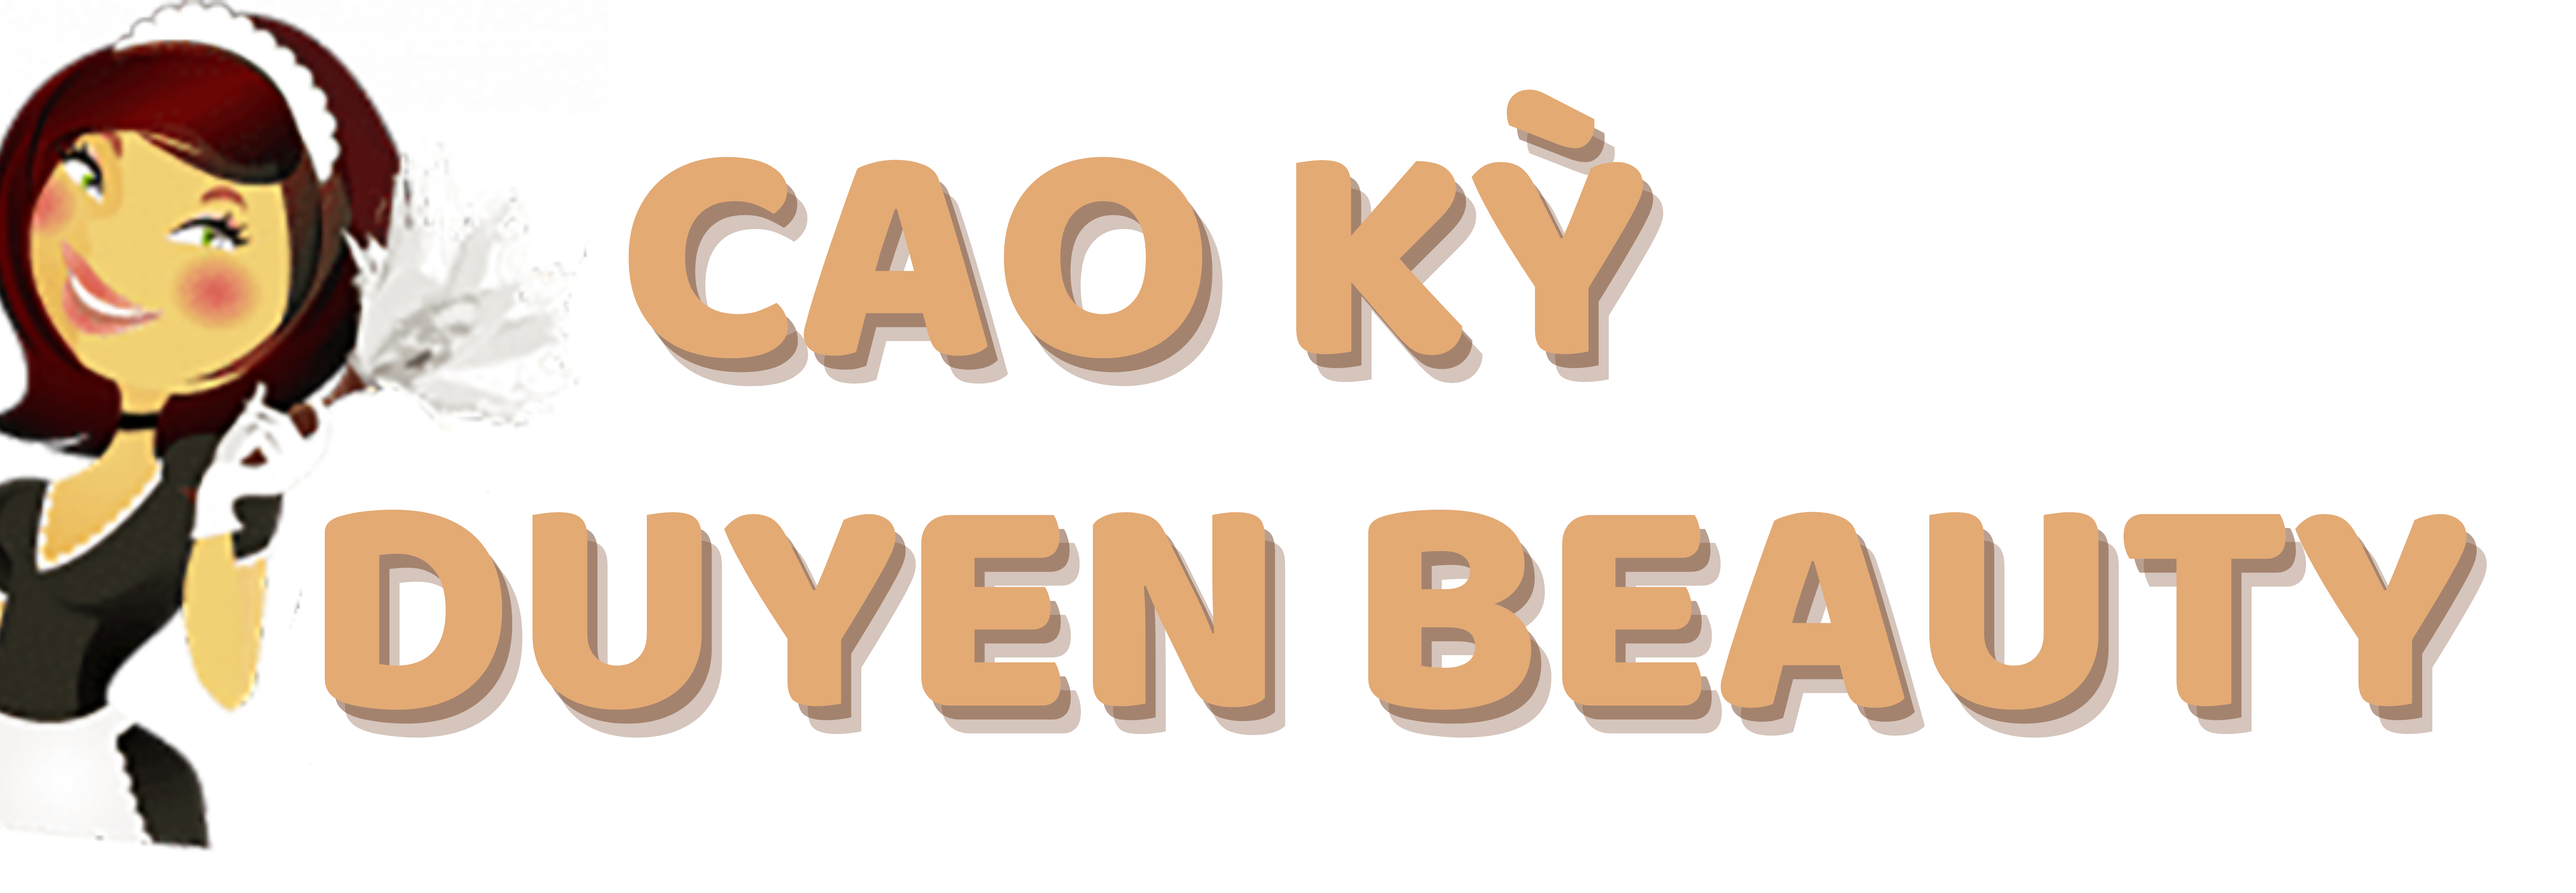
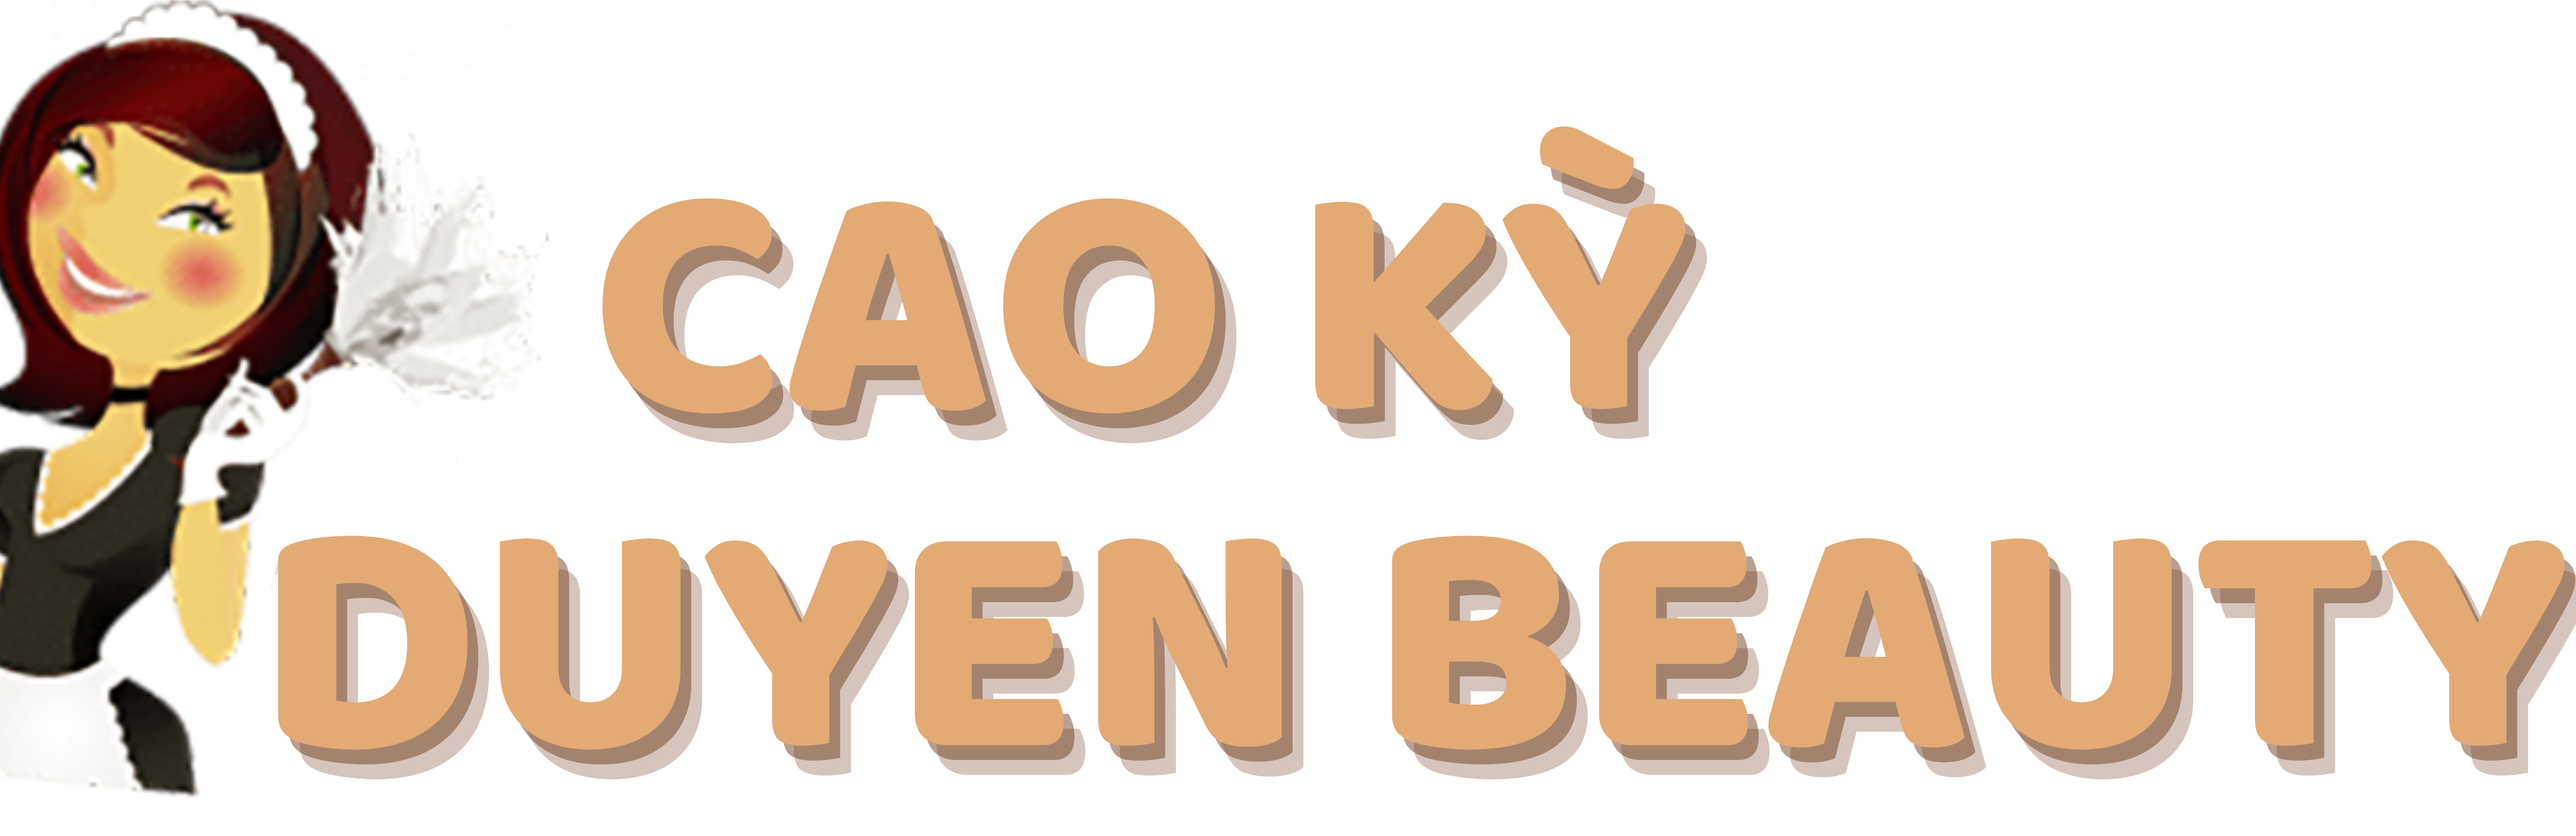
asd

diff --git a/frontend/src/Layouts/ClientLayout/components/Header/index.jsx b/frontend/src/Layouts/ClientLayout/components/Header/index.jsx
@@ -84,12 +84,15 @@ const ClientHeader = () => {
       <Box
         sx={{
           backgroundColor: "background.paper",
-          height: "120px",
+          height: {
+            xs: "140px",
+            sm: "120px",
+          },
           display: "flex",
           alignItems: "center",
           justifyContent: "space-between",
           paddingX: {
-            xs: "0px",
+            xs: "30px",
             sm: "60px",
             md: "90px",
             lg: "160px",
@@ -127,7 +130,7 @@ const ClientHeader = () => {
           // <IconButton onClick={() => setMenu(true)}>
           //   <Icon icon="solar:hamburger-menu-linear" width={32} height={32} />
           // </IconButton>
-          <img src={TitleImage} className="h-[100px]"></img>
+          <img src={TitleImage} className="h-[120px]"></img>
         )}
         {upMd ? (
           <Stack
@@ -161,37 +164,35 @@ const ClientHeader = () => {
           </Stack>
         ) : (
           <Stack
-            direction="row"
             sx={{
-              gap: "12px",
               height: "100%",
               alignItems: "start",
+              justifyContent: "start",
+              gap: "8px",
               paddingTop: "20px",
             }}
           >
-            {/* <IconButton onClick={() => setOpenSearch(true)}>
-              <Icon icon="eva:search-fill" width={28} height={28} />
-            </IconButton> */}
-            <IconButton
-              onClick={() => navigate("/checkout")}
-              sx={{
-                marginRight: "12px",
-              }}
+            <Badge
+              badgeContent={
+                <Typography variant="captiontext">
+                  {cart?.products?.length}
+                </Typography>
+              }
+              color="error"
             >
-              <Badge
-                badgeContent={
-                  <Typography variant="captiontext">
-                    {cart?.products?.length}
-                  </Typography>
-                }
-                color="error"
-              >
-                <Icon icon="solar:cart-5-broken" width={24} height={24} />
-              </Badge>
-            </IconButton>
-            <IconButton onClick={() => setMenu(true)}>
-              <Icon icon="solar:hamburger-menu-linear" width={24} height={24} />
-            </IconButton>
+              <Icon
+                onClick={() => navigate("/checkout")}
+                icon="solar:cart-5-broken"
+                width={24}
+                height={24}
+              />
+            </Badge>
+            <Icon
+              onClick={() => setMenu(true)}
+              icon="solar:hamburger-menu-linear"
+              width={24}
+              height={24}
+            />
           </Stack>
         )}
         <SearchModal

diff --git a/frontend/src/Pages/Client/LandingPage/index.jsx b/frontend/src/Pages/Client/LandingPage/index.jsx
@@ -71,12 +71,15 @@ const LandingPage = () => {
               sx={{
                 paddingX: "30px",
                 gap: "12px",
+                ".landing__title": {
+                  color: "primary.main",
+                },
               }}
             >
-              <Typography variant="h2" color="primary.main">
+              <Typography className="landing__title" variant="h2">
                 Authentic Korean Quality at Fair Prices
               </Typography>
-              <Typography variant="h5" color="primary.main">
+              <Typography className="landing__title" variant="h5">
                 Specializing in providing genuine Korean products with superior
                 quality, reasonable price commitment and dedicated service.
               </Typography>
